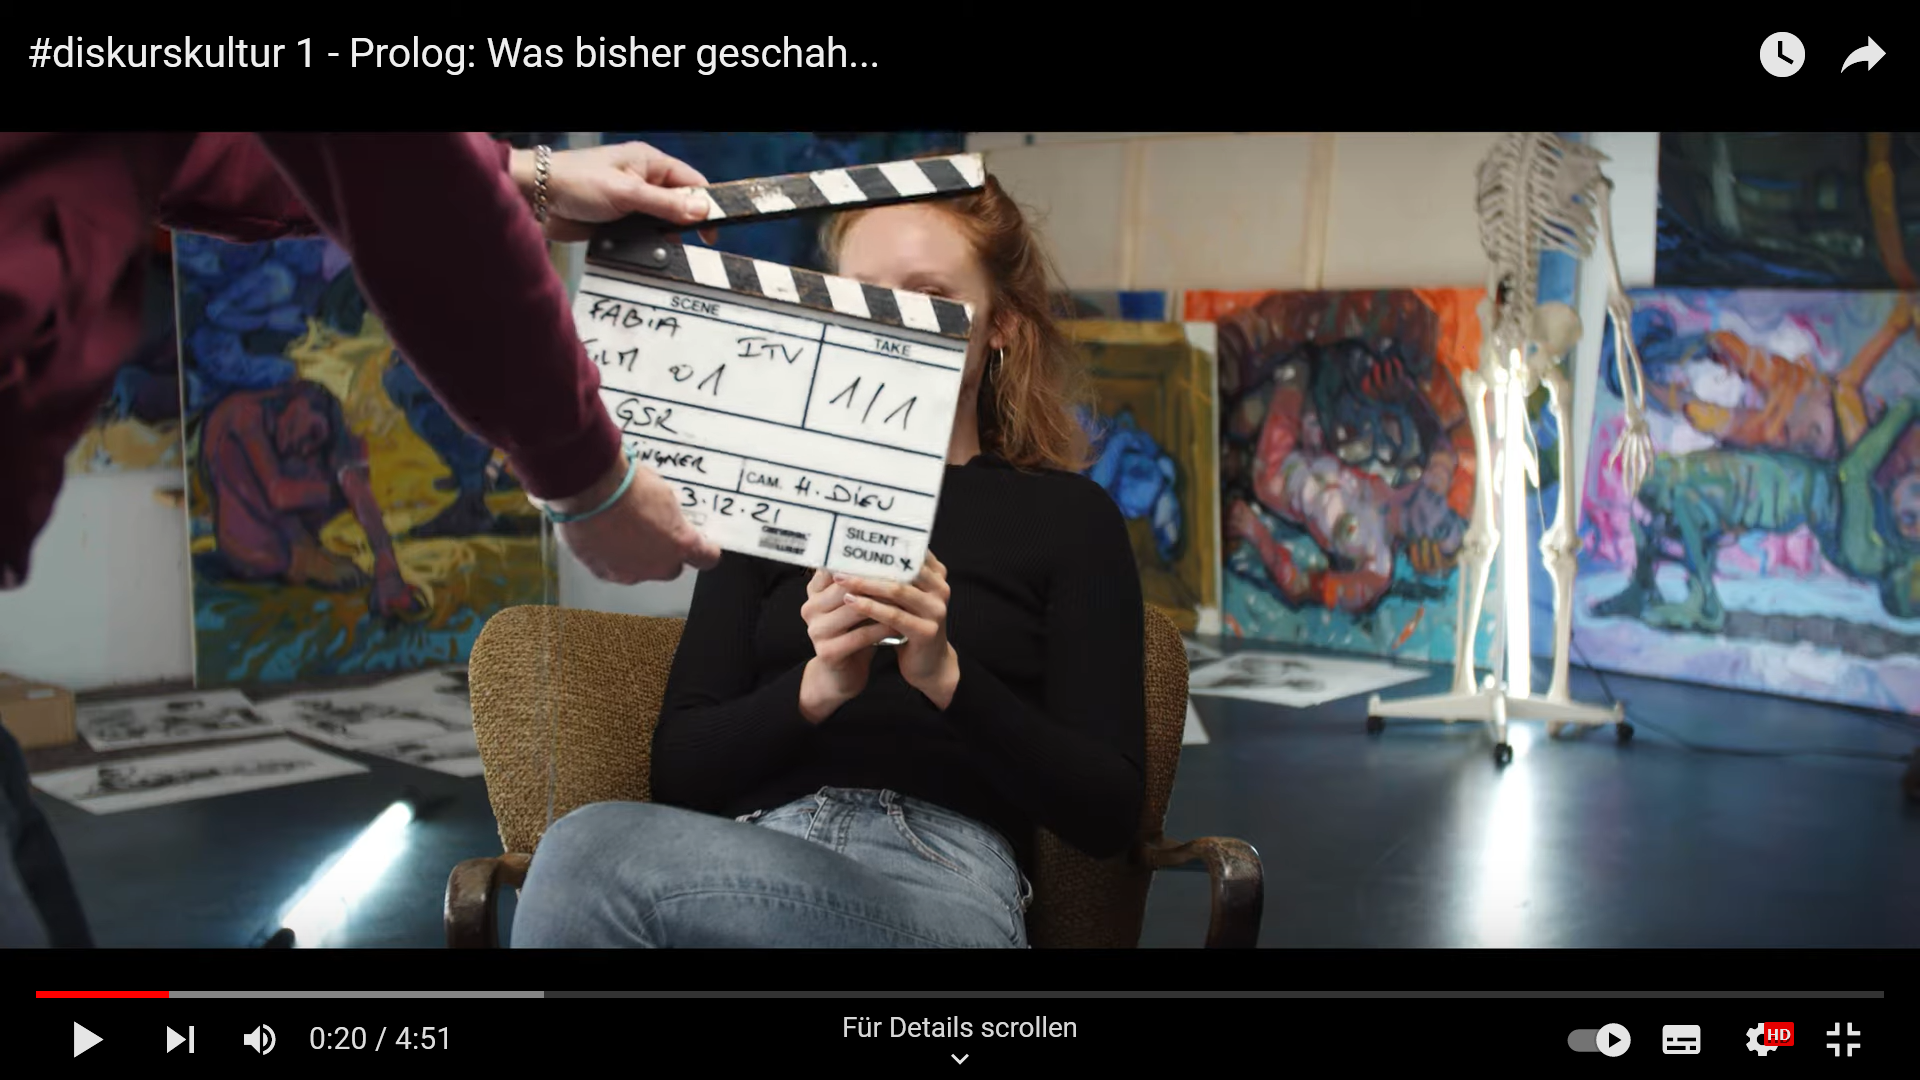
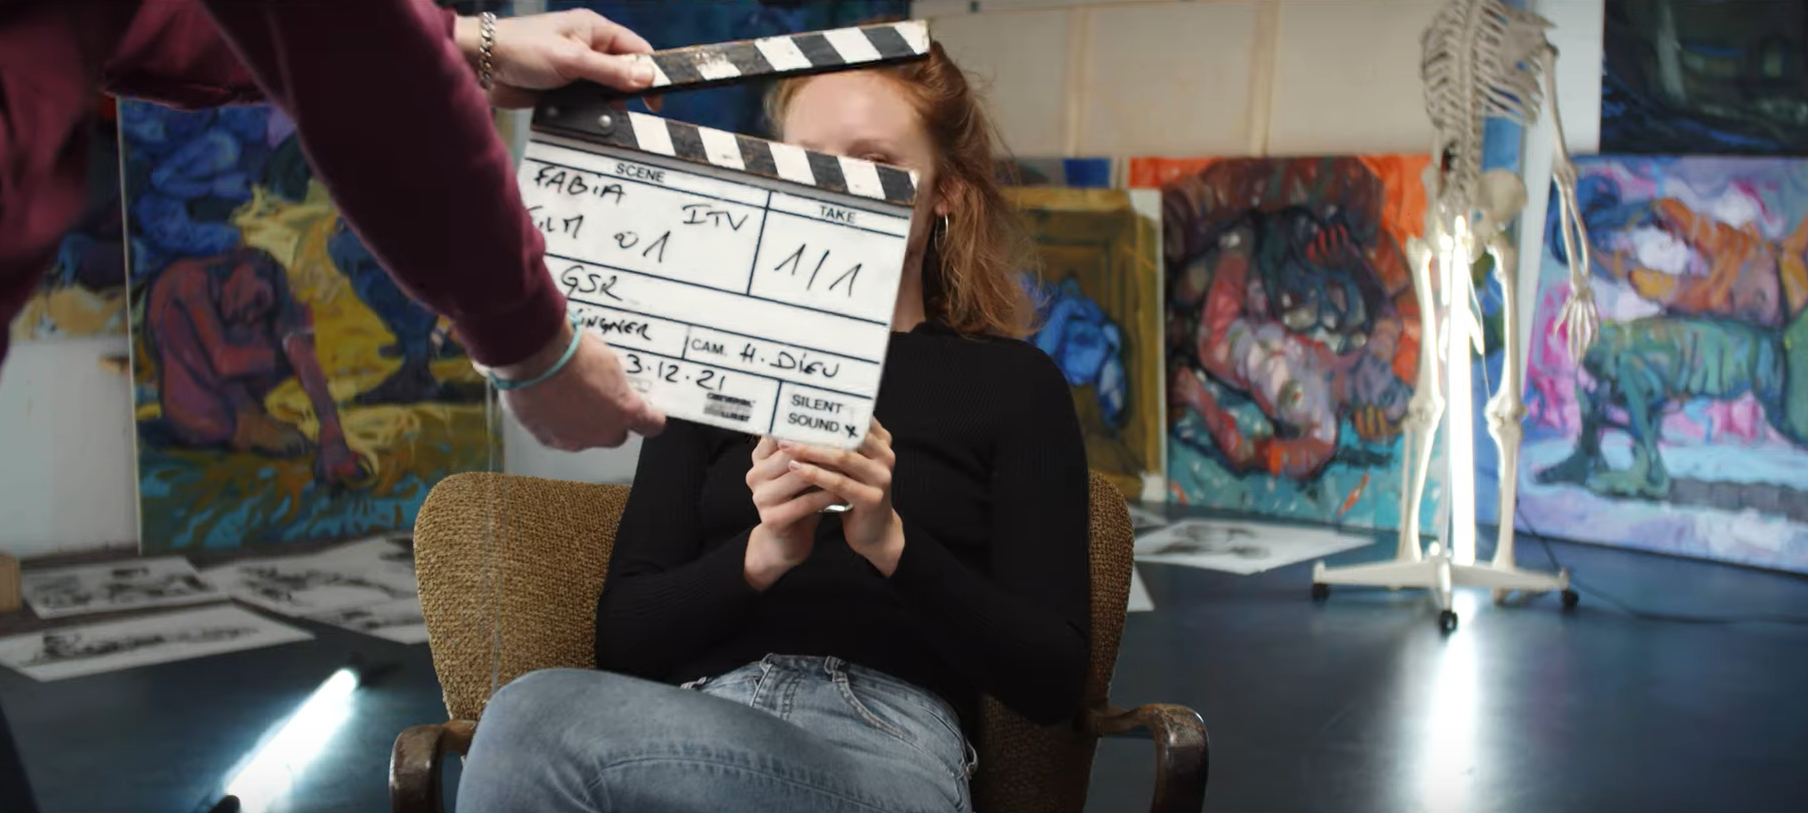
Update from Forestry.io Mischa Gohlke created static/media/2022/11/diskurs-kultur.png Mischa Gohlke updated content/aktivitaeten/netzwerk-und-oeffentlichkeitsarbeit/interdisziplinaere-kulturarbeit/interdisziplinare-kulturarbeit.md

diff --git a/content/aktivitaeten/netzwerk-und-oeffentlichkeitsarbeit/interdisziplinaere-kulturarbeit/interdisziplinare-kulturarbeit.md b/content/aktivitaeten/netzwerk-und-oeffentlichkeitsarbeit/interdisziplinaere-kulturarbeit/interdisziplinare-kulturarbeit.md
@@ -1,5 +1,5 @@
 ---
-teaser: "/media/2020/10/est-asv.jpg"
+teaser: "/media/2022/11/diskurs-kultur.png"
 title: Interdisziplinäre Kulturarbeit
 description: Das Projekt "Interdisziplinäre Kulturarbeit im Kontext der gesamtgesellschaftlichen
   Entwicklung von Kunst & Kultur Wissenstransfer, Vernetzung und Kooperationsvorhaben"
